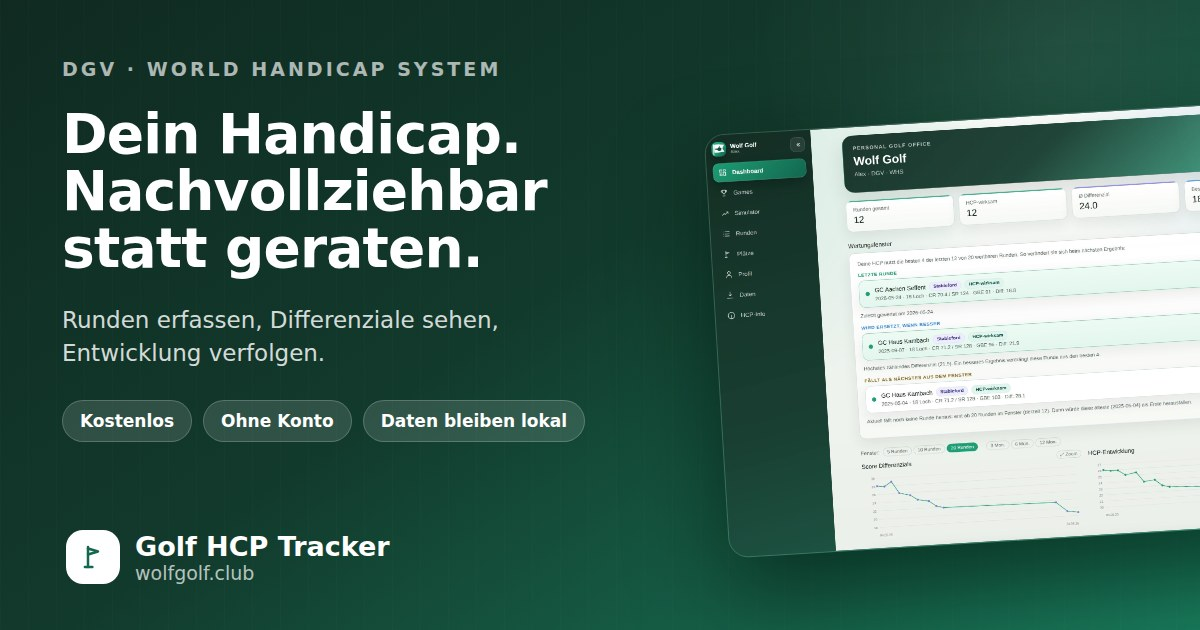
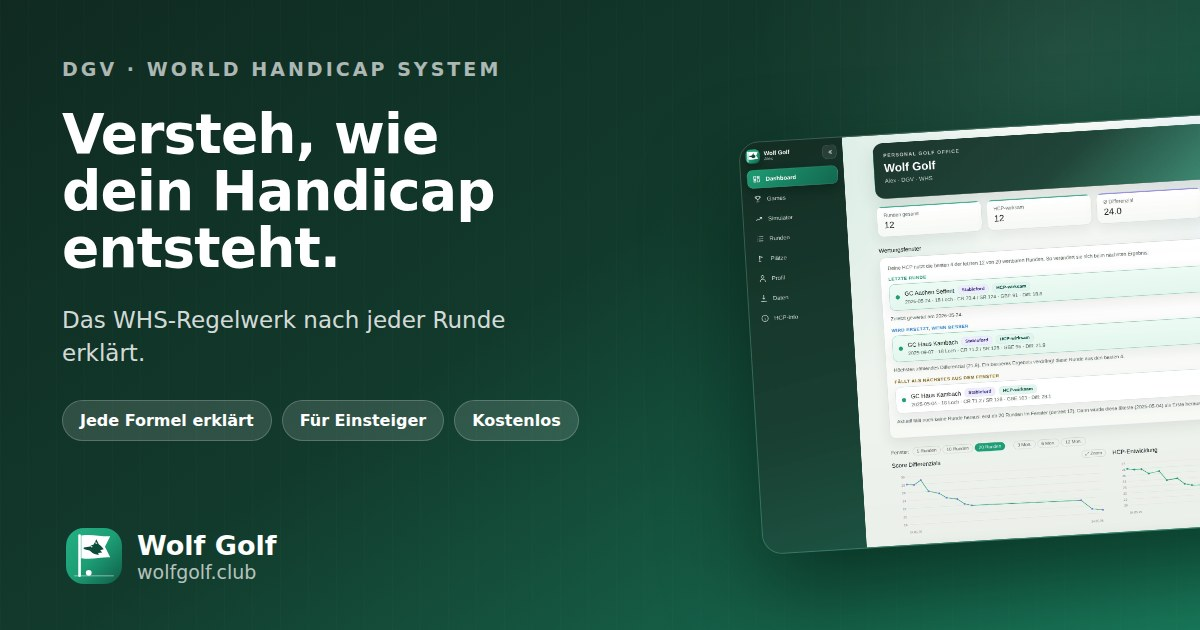
Landing Page neu positionieren: Regelwerk verstehen statt "geraten"
"Nachvollziehbar statt geraten" hat unterstellt, das Handicap sei eine
Schaetzung. Es ist offiziell gefuehrt und berechnet – unuebersichtlich ist
nicht die Zahl, sondern das Regelwerk dahinter, besonders am Anfang.

- Aufmacher: "Versteh, wie dein Handicap entsteht." Die Unterzeile benennt
  konkret, was verdeckt bleibt: Wertungsfenster, Score Differenziale,
  Exceptional Scores, Anfaenger-Bremse.
- Vertrauens-Chips auf den Nutzen umgestellt: "Jede Formel erklaert" und
  "Fuer Einsteiger gedacht" statt reiner Kosten- und Datenschutzargumente.
- Funktionsabschnitt heisst "Vom Ergebnis zur Erklaerung" und benennt die
  Luecke: Der Club fuehrt den Index, sagt aber nicht, warum er sich bewegt
  hat – oder eben nicht.
- Karte "Jede Formel zum Nachlesen" verweist auf den HCP-Info-Bereich; das
  Wertungsfenster erklaert jetzt ausdruecklich, warum eine gute Runde
  manchmal nichts aendert.
- Regelwerk-Abschnitt und Schritt 3 auf Verstehen statt Verfolgen gedreht,
  neue Einsteiger-Frage in den FAQ.
- Sharing-Texte, Titel, Manifest-Beschreibung und OG-Bild nachgezogen. Im
  OG-Bild ausserdem zwei Fehler behoben: alter Produktname und
  umgebrochene Chips; es nutzt jetzt das echte Wolf-Golf-Logo.

Claude-Session: https://claude.ai/code/session_013QzLeP2wGjaZHM2jZt931k

diff --git a/golf_hcp_tracker.tsx b/golf_hcp_tracker.tsx
@@ -3529,8 +3529,8 @@ function AppFooter({onOpenLegal}) {
 const LANDING_FEATURES = [
   {
     icon: ["M6 3h12v18H6z","M9 7h6","M9 11h.01","M12 11h.01","M15 11h.01","M9 15h.01","M12 15h.01","M15 15h.01"],
-    title: "Rechnet nach den WHS-Regeln",
-    text: "Score Differenzial aus GBE, Course Rating und Slope. Danach die besten Differenziale der letzten 20 Runden plus die WHS-Anpassung für kleine Rundenzahlen – Schritt für Schritt nachlesbar statt Blackbox.",
+    title: "Jede Formel zum Nachlesen",
+    text: "Score Differenzial aus GBE, Course Rating und Slope, dann die besten Differenziale der letzten 20 Runden plus die Anpassung für kleine Rundenzahlen. Der Bereich HCP-Info erklärt jeden Schritt mit Formel und Beispiel – auch wenn du mit WHS noch nie zu tun hattest.",
   },
   {
     icon: ["M14 3v5h5","M14 3H7a2 2 0 00-2 2v14a2 2 0 002 2h10a2 2 0 002-2V8l-5-5Z","M12 12v5","M9.5 14.5L12 17l2.5-2.5"],
@@ -3550,7 +3550,7 @@ const LANDING_FEATURES = [
   {
     icon: ["M4 13h6V4H4v9Z","M14 20h6v-9h-6v9Z","M4 20h6v-4H4v4Z","M14 8h6V4h-6v4Z"],
     title: "Du siehst, was zählt",
-    text: "Welche Runden aktuell in deinen Index eingehen, welche als nächste aus dem Fenster fällt und welches Ergebnis die schlechteste zählende Runde verdrängt.",
+    text: "Welche Runden aktuell in deinen Index eingehen, welche als nächste aus dem Fenster fällt und welches Ergebnis die schlechteste zählende Runde verdrängt. Damit wird verständlich, warum eine gute Runde manchmal nichts ändert.",
   },
   {
     icon: ["M7 3h10a1 1 0 011 1v16a1 1 0 01-1 1H7a1 1 0 01-1-1V4a1 1 0 011-1Z","M10.5 18h3"],
@@ -3587,6 +3587,10 @@ const LANDING_FAQ = [
   {
     q: "Ist das mein offizielles Handicap?",
     a: "Nein. Die App rechnet nach den WHS-Regeln des DGV, verbindlich bleibt aber der Index, den dein Heimatclub führt. Der berechnete Wert entspricht dem, was golf.de als „Berechneter HCPI“ ausweist.",
+  },
+  {
+    q: "Ich fange gerade mit Golf an – hilft mir das?",
+    a: "Dafür ist die App vor allem gedacht. Am Anfang bewegt sich der Index in Sprüngen, die von außen willkürlich wirken: die Anfänger-Bremse ab 26,9, die Anpassung bei wenigen Runden, Ausnahmerunden. Die App zeigt nach jeder Runde, welche dieser Regeln gegriffen hat – und im Bereich HCP-Info steht jede Formel mit Beispiel.",
   },
   {
     q: "Was kostet die App?",
@@ -3679,21 +3683,22 @@ function LandingPage({profile, onSave, onOpenLegal}) {
       <section style={{...cardStyle,padding:"clamp(24px, 4vw, 40px)",marginBottom:16,background:"linear-gradient(145deg, rgba(16,42,33,0.98) 0%, rgba(18,57,44,0.96) 46%, rgba(29,158,117,0.84) 100%)",color:"#fff",position:"relative",overflow:"hidden"}}>
         <div style={{position:"absolute",inset:0,background:"radial-gradient(circle at 84% 12%, rgba(255,255,255,0.22), transparent 26%), linear-gradient(90deg, rgba(255,255,255,0.05) 1px, transparent 1px)",backgroundSize:"auto, 28px 28px",opacity:0.35,pointerEvents:"none"}}/>
         <div style={{position:"relative",maxWidth:720}}>
-          <div style={{...eyebrowStyle,color:"rgba(255,255,255,0.72)"}}>Handicap-Tracking nach dem World Handicap System</div>
+          <div style={{...eyebrowStyle,color:"rgba(255,255,255,0.72)"}}>Das World Handicap System, Schritt für Schritt sichtbar</div>
           <h1 style={{fontSize:"clamp(30px, 5vw, 46px)",lineHeight:1.06,fontWeight:700,margin:"0 0 14px"}}>
-            Dein Handicap. Nachvollziehbar statt geraten.
+            Versteh, wie dein Handicap entsteht.
           </h1>
-          <p style={{fontSize:"clamp(16px, 2vw, 18px)",lineHeight:1.6,color:"rgba(255,255,255,0.82)",margin:"0 0 22px",maxWidth:620}}>
-            Runden erfassen, Differenziale sehen, Entwicklung verfolgen – mit derselben Rechenlogik, die der DGV im
-            World Handicap System anwendet. Dazu Matchplay, Nassau, Skins, Wolf und Bingo Bango Bongo für die
-            Flight-Runde. Kostenlos, ohne Konto, komplett in deinem Browser.
+          <p style={{fontSize:"clamp(16px, 2vw, 18px)",lineHeight:1.6,color:"rgba(255,255,255,0.82)",margin:"0 0 22px",maxWidth:640}}>
+            Hinter deinem Handicap-Index steckt ein umfangreiches Regelwerk: Wertungsfenster, Score Differenziale,
+            Exceptional Scores, die Anfänger-Bremse. Wolf Golf rechnet nicht nur mit, sondern zeigt nach jeder Runde,
+            welche Regel gerade greift und was die nächste Runde bewegen würde. Dazu Matchplay, Nassau, Skins, Wolf
+            und Bingo Bango Bongo für die Flight-Runde.
           </p>
           <div style={{display:"flex",gap:12,flexWrap:"wrap",marginBottom:22}}>
             <button type="button" onClick={()=>scrollTo(startRef)} style={primaryButtonStyle}>Kostenlos starten</button>
             <button type="button" onClick={()=>scrollTo(calcRef)} style={secondaryButtonStyle}>So wird gerechnet</button>
           </div>
           <div style={{display:"flex",gap:8,flexWrap:"wrap"}}>
-            {["0 €, keine Werbung","Ohne Registrierung","Daten bleiben auf deinem Gerät","Offline nutzbar"].map(text=>(
+            {["Jede Formel erklärt","Für Einsteiger gedacht","0 €, ohne Registrierung","Offline nutzbar"].map(text=>(
               <span key={text} style={heroChipStyle}>{check}{text}</span>
             ))}
           </div>
@@ -3729,10 +3734,10 @@ function LandingPage({profile, onSave, onOpenLegal}) {
 
       <section style={{marginBottom:26}}>
         <div style={eyebrowStyle}>Was die App für dich tut</div>
-        <h2 style={sectionHeadingStyle}>Alles zwischen Scorekarte, Handicap-Index und Flight-Wette.</h2>
+        <h2 style={sectionHeadingStyle}>Vom Ergebnis zur Erklärung.</h2>
         <p style={{...bodyTextStyle,maxWidth:680,marginBottom:16}}>
-          Kein Excel, keine Zettelwirtschaft und kein Warten auf die Clubverwaltung – du siehst nach jeder Runde,
-          wo dein Index steht und warum.
+          Dein Club führt den Index, sagt dir aber nicht, warum er sich bewegt hat – oder eben nicht bewegt hat.
+          Genau das macht Wolf Golf sichtbar: nach jeder Runde, in ganzen Sätzen statt in Tabellen.
         </p>
         <div style={{display:"grid",gridTemplateColumns:"repeat(auto-fit, minmax(260px, 1fr))",gap:14}}>
           {LANDING_FEATURES.map(feature=>(
@@ -3748,11 +3753,12 @@ function LandingPage({profile, onSave, onOpenLegal}) {
       </section>
 
       <section ref={calcRef} style={{...cardStyle,padding:"clamp(22px, 3vw, 32px)",marginBottom:26,background:"linear-gradient(160deg, rgba(20,46,37,0.97) 0%, rgba(18,57,44,0.95) 100%)",color:"#fff"}}>
-        <div style={{...eyebrowStyle,color:"rgba(255,255,255,0.7)"}}>Die Details, an denen andere Tracker scheitern</div>
+        <div style={{...eyebrowStyle,color:"rgba(255,255,255,0.7)"}}>Das Regelwerk hinter der Zahl</div>
         <h2 style={{...sectionHeadingStyle,color:"#fff",maxWidth:640}}>WHS ist mehr als ein Mittelwert.</h2>
         <p style={{fontSize:15,lineHeight:1.65,color:"rgba(255,255,255,0.78)",margin:"0 0 20px",maxWidth:660}}>
-          Ein Durchschnitt über die besten Runden ist schnell gebaut. Die Regeln, die deinen Index wirklich bewegen,
-          stecken in den Sonderfällen – und die rechnet diese App mit.
+          Ein Durchschnitt über die besten Runden ist schnell erklärt. Die Regeln, die deinen Index tatsächlich
+          bewegen, stecken in den Sonderfällen – und die sind der Grund, warum das Handicap besonders am Anfang
+          unübersichtlich wirkt. Wolf Golf rechnet sie mit und schreibt dazu, was passiert ist.
         </p>
         <div style={{display:"grid",gridTemplateColumns:"repeat(auto-fit, minmax(270px, 1fr))",gap:14,marginBottom:18}}>
           {LANDING_DETAILS.map(detail=>(
@@ -3779,7 +3785,7 @@ function LandingPage({profile, onSave, onOpenLegal}) {
           {[
             ["Profil anlegen","Name und Start-HCP eintragen. Keine E-Mail, keine Bestätigung, kein Passwort."],
             ["Runden erfassen oder importieren","Von Hand in einer halben Minute – oder die komplette Historie in einem Schritt aus dem golf.de-PDF."],
-            ["Entwicklung verfolgen","Index, Wertungsfenster und Verlauf aktualisieren sich mit jeder gespeicherten Runde."],
+            ["Verstehen, was sich bewegt","Index, Wertungsfenster und Verlauf aktualisieren sich mit jeder Runde – mit der Erklärung, welche Regel dahintersteckt."],
           ].map(([title, text], i)=>(
             <div key={title} style={{...cardStyle,padding:"20px",display:"flex",flexDirection:"column",gap:10}}>
               <div style={{width:34,height:34,borderRadius:999,background:"rgba(29,158,117,0.12)",color:"#14684f",display:"grid",placeItems:"center",fontSize:15,fontWeight:700}}>{i+1}</div>

diff --git a/index.html b/index.html
@@ -6,7 +6,7 @@
     <meta name="theme-color" content="#1D9E75" />
     <meta
       name="description"
-      content="Handicap-Index nach dem World Handicap System berechnen und verfolgen: Runden erfassen, golf.de-Historie per PDF importieren, Entwicklung sehen. Kostenlos, ohne Konto, alle Daten bleiben im Browser."
+      content="Versteh, wie dein Handicap-Index entsteht: Wertungsfenster, Score Differenziale, Exceptional Score und Anfänger-Bremse nach jeder Runde erklärt. Mit golf.de-PDF-Import und Flight-Spielen. Kostenlos und ohne Konto."
     />
     <link rel="canonical" href="https://wolfgolf.club/" />
 
@@ -14,20 +14,20 @@
     <meta property="og:site_name" content="Wolf Golf" />
     <meta property="og:locale" content="de_DE" />
     <meta property="og:url" content="https://wolfgolf.club/" />
-    <meta property="og:title" content="Wolf Golf – dein Handicap, nachvollziehbar" />
+    <meta property="og:title" content="Wolf Golf – versteh, wie dein Handicap entsteht" />
     <meta
       property="og:description"
-      content="Runden erfassen, Differenziale sehen, Entwicklung verfolgen – nach den WHS-Regeln des DGV. Kostenlos, ohne Konto, alle Daten bleiben auf deinem Gerät."
+      content="Hinter dem Handicap-Index steckt ein umfangreiches Regelwerk. Wolf Golf zeigt nach jeder Runde, welche Regel gegriffen hat – besonders hilfreich, wenn du anfängst."
     />
     <meta property="og:image" content="https://wolfgolf.club/og-image.jpg" />
     <meta property="og:image:width" content="1200" />
     <meta property="og:image:height" content="630" />
     <meta property="og:image:alt" content="Wolf Golf: Dashboard mit Handicap-Index, Wertungsfenster und Verlauf" />
     <meta name="twitter:card" content="summary_large_image" />
-    <meta name="twitter:title" content="Wolf Golf – dein Handicap, nachvollziehbar" />
+    <meta name="twitter:title" content="Wolf Golf – versteh, wie dein Handicap entsteht" />
     <meta
       name="twitter:description"
-      content="Runden erfassen, Differenziale sehen, Entwicklung verfolgen – nach den WHS-Regeln des DGV. Kostenlos und ohne Konto."
+      content="Hinter dem Handicap-Index steckt ein umfangreiches Regelwerk. Wolf Golf zeigt nach jeder Runde, welche Regel gegriffen hat."
     />
     <meta name="apple-mobile-web-app-capable" content="yes" />
     <meta name="apple-mobile-web-app-status-bar-style" content="default" />
@@ -91,7 +91,7 @@
         content: "\2013";
       }
     </style>
-    <title>Wolf Golf – Handicap nach WHS berechnen und verfolgen</title>
+    <title>Wolf Golf – Handicap-Entwicklung nach WHS verstehen</title>
   </head>
   <body>
     <div id="root"></div>
